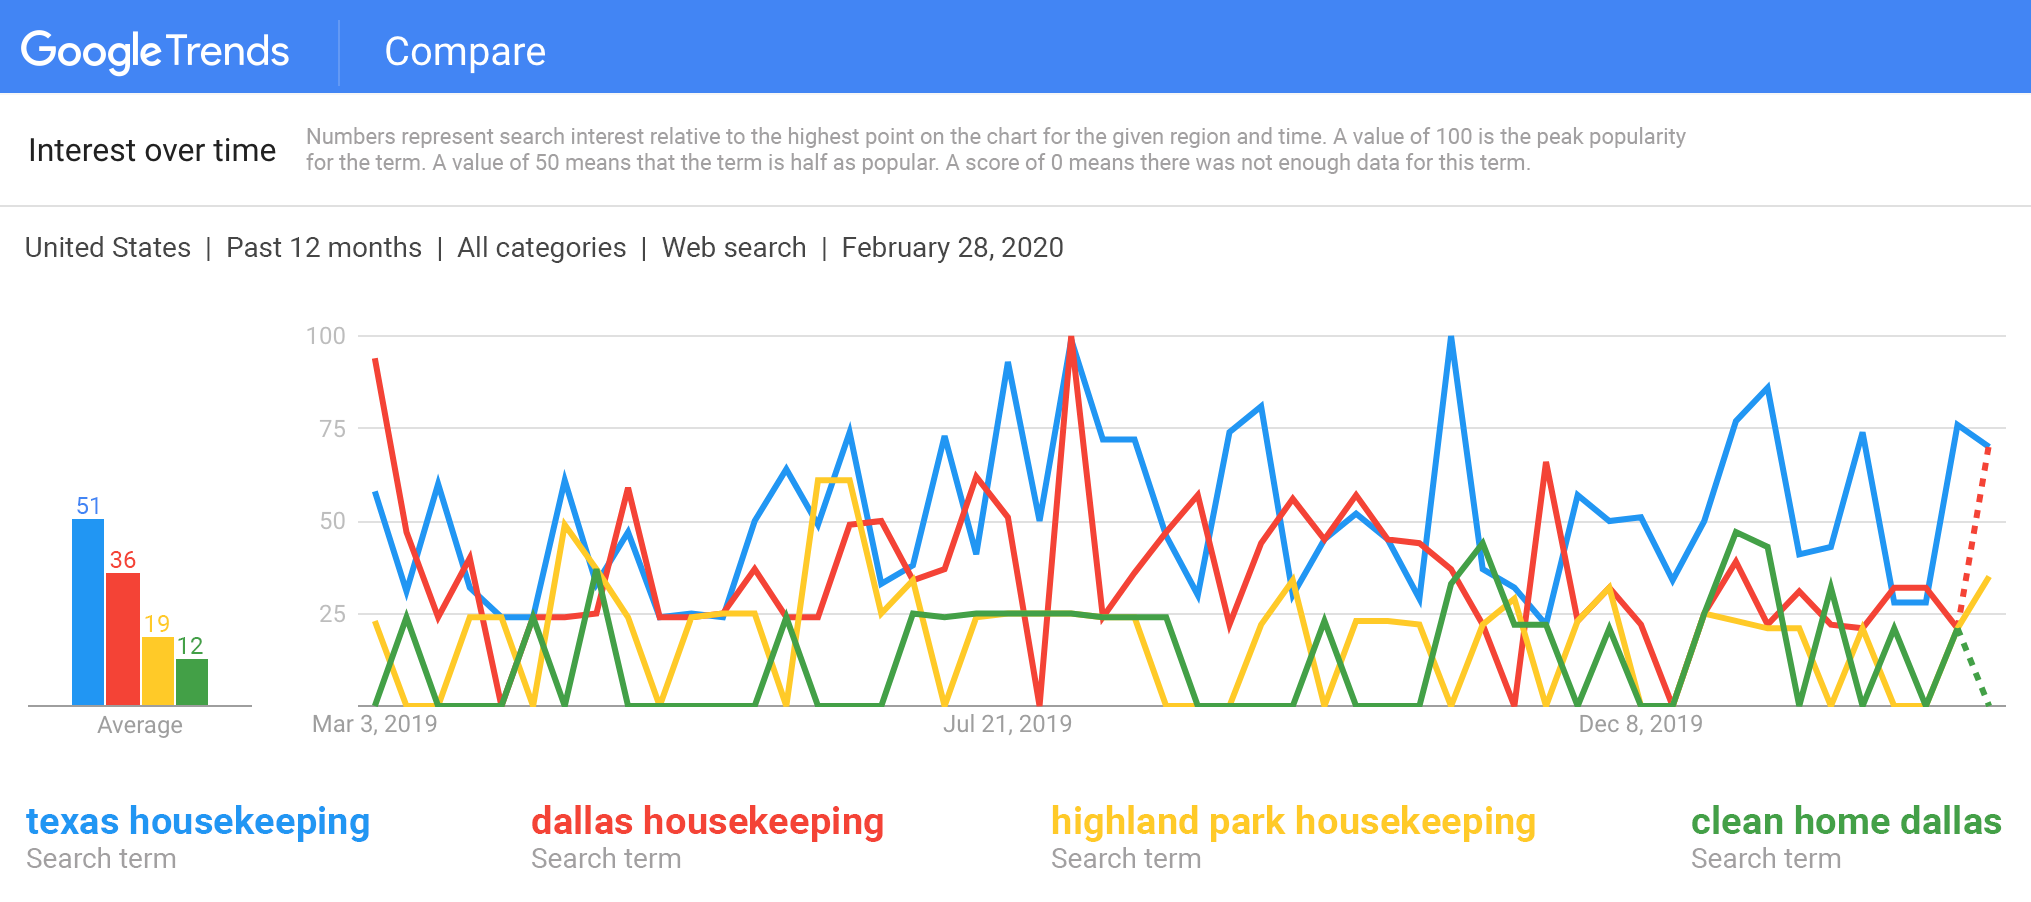
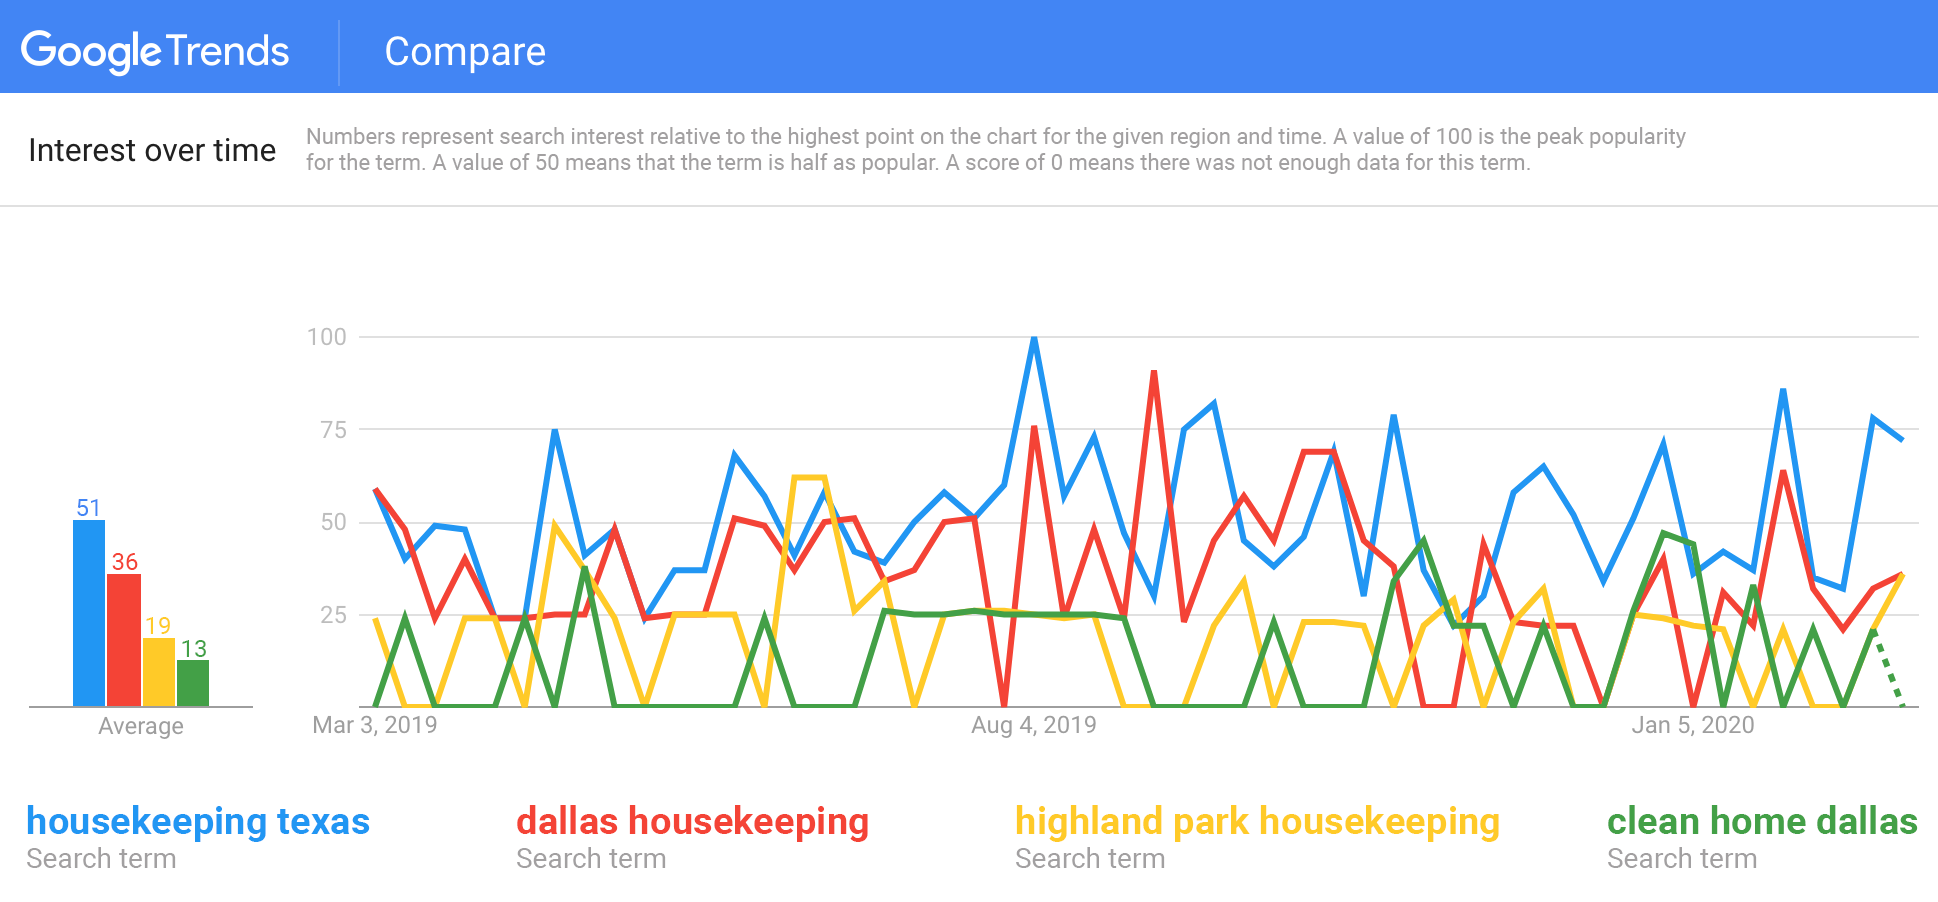
updates

diff --git a/index.html b/index.html
@@ -45,7 +45,7 @@
         <h2>Keywords and Current Ranking</h2>
         <p>According to Google Trends, these keywords and terms/phrases had the highest level of interest (in order):
           <ol class="columns" data-columns="2">
-            <li>texas housekeeping</li>
+            <li>housekeeping texas</li>
             <li>dallas housekeeping</li>
             <li>highland park housekeeping</li>
             <li>clean home dallas</li>
@@ -72,6 +72,15 @@
             </ul>
         </p>
 
+        <p>This research shows the nuances of words that we need to pay attention to. People are not searching for “house keeping” or “cleaner”—”housekeeping” is what has the highest interest.</p>
+
+        <p>This is where Highland Park Housekeeping ranks organically when we search the most popular keywords.</p>
+        <ol class="columns" data-columns="2">
+          <li>texas housekeeping</li>
+          <li>dallas housekeeping</li>
+          <li>highland park housekeeping</li>
+          <li>clean home dallas</li>
+        </ol>
 
       </div>
 

diff --git a/katelyn.html b/katelyn.html
@@ -45,7 +45,7 @@
         <h2>Keywords and Current Ranking</h2>
         <p>According to Google Trends, these keywords and terms/phrases had the highest level of interest (in order):
           <ol class="columns" data-columns="2">
-            <li>texas housekeeping</li>
+            <li>housekeeping texas</li>
             <li>dallas housekeeping</li>
             <li>highland park housekeeping</li>
             <li>clean home dallas</li>
@@ -72,6 +72,15 @@
             </ul>
         </p>
 
+        <p>This research shows the nuances of words that we need to pay attention to. People are not searching for “house keeping” or “cleaner”—”housekeeping” is what has the highest interest.</p>
+
+        <p>This is where Highland Park Housekeeping ranks organically when we search the most popular keywords.</p>
+        <ol class="columns" data-columns="2">
+          <li>texas housekeeping</li>
+          <li>dallas housekeeping</li>
+          <li>highland park housekeeping</li>
+          <li>clean home dallas</li>
+        </ol>
 
       </div>
 

diff --git a/css/typography.css b/css/typography.css
@@ -45,6 +45,10 @@ p {
   padding-bottom: .7rem;
 }
 
+strong {
+  font-weight: 500;
+}
+
 hr {
   border: 1px solid #e2e4e7;
   margin-bottom: .4rem;
